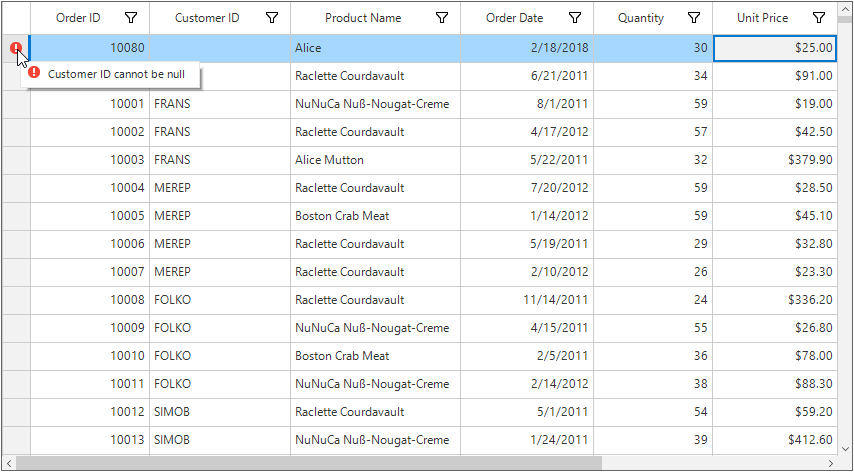
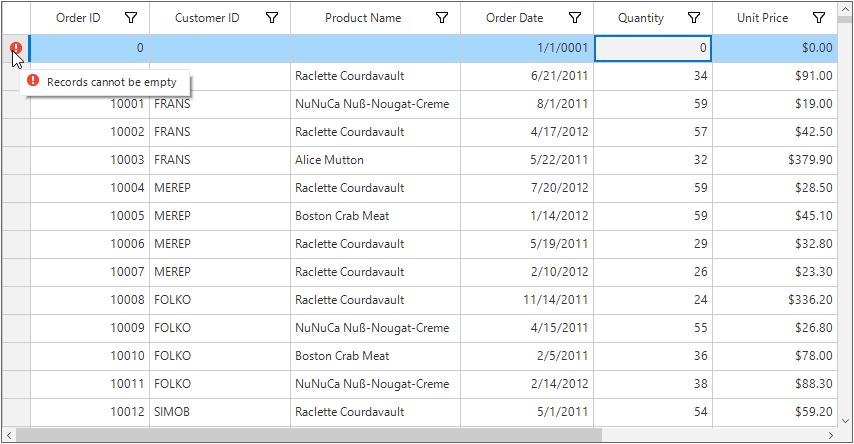
Changes in code snippet has been committed

Changed region(s): [[0.0, 0.0293, 1.0, 0.9662]]

diff --git a/WindowsForms/SfDataGrid/DataManipulation.md b/WindowsForms/SfDataGrid/DataManipulation.md
@@ -129,24 +129,25 @@ void sfDataGrid_RowValidating(object sender, Syncfusion.WinForms.DataGrid.Events
 {
     var data = e.DataRow.RowData as OrderInfo;
 
-    if (string.IsNullOrEmpty(data.CustomerID))
+    if (string.IsNullOrEmpty(data.CustomerID) || string.IsNullOrEmpty(data.ProductName) || string.IsNullOrEmpty(data.ShipCountry))
     {
-        e.ErrorMessage = "Customer ID cannot be null";
+        e.ErrorMessage = "Records cannot be empty";
         e.IsValid = false;
-    } 
+    }
 }
 {% endhighlight %}
 {% highlight vb %}
 AddHandler sfDataGrid.RowValidating, AddressOf sfDataGrid_RowValidating 
 
 Private Sub sfDataGrid_RowValidating(ByVal sender As Object, ByVal e As Syncfusion.WinForms.DataGrid.Events.RowValidatingEventArgs)
-	Dim data = TryCast(e.DataRow.RowData, OrderInfo)
+    Dim data = TryCast(e.DataRow.RowData, OrderInfo)
 
-	If String.IsNullOrEmpty(data.CustomerID) Then
-		e.ErrorMessage = "Customer ID cannot be null"
-		e.IsValid = False
-	End If
+    If String.IsNullOrEmpty(data.CustomerID) OrElse String.IsNullOrEmpty(data.ProductName) OrElse String.IsNullOrEmpty(data.ShipCountry) Then
+        e.ErrorMessage = "Records cannot be empty"
+        e.IsValid = False
+    End If
 End Sub
+
 {% endhighlight %}
 {% endtabs %}
 
